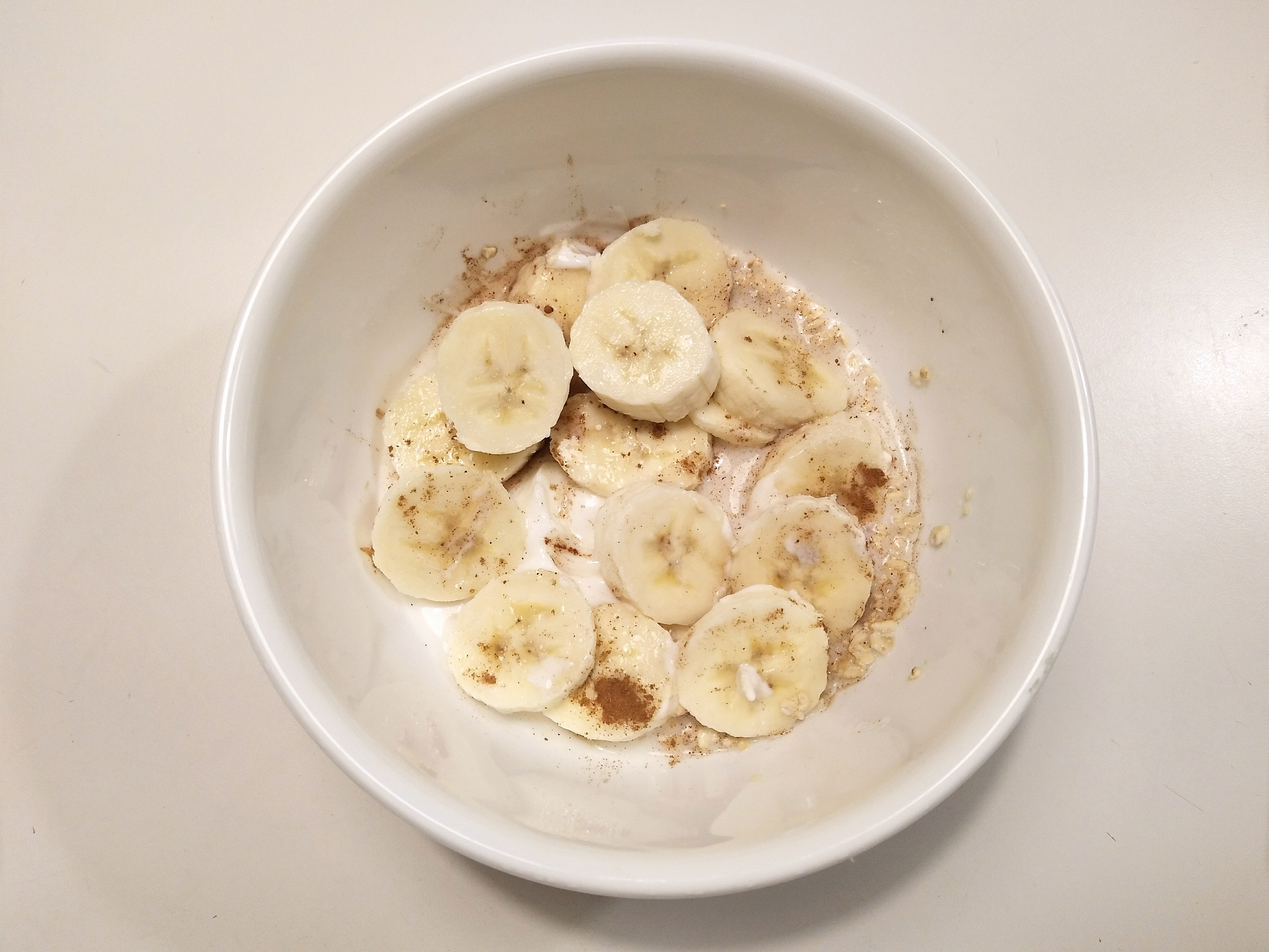
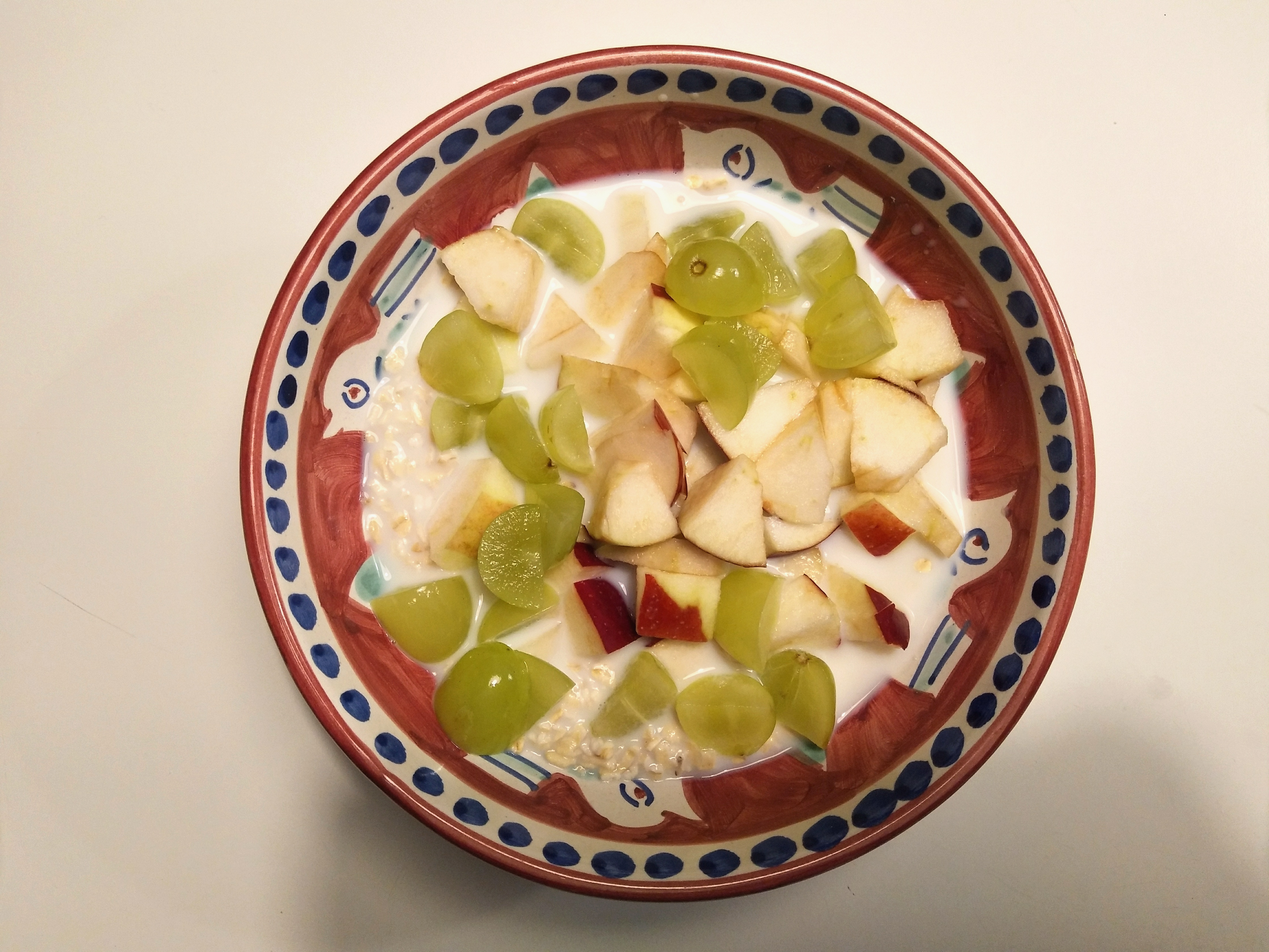
add img

diff --git a/docs/random/quick_food.md b/docs/random/quick_food.md
@@ -23,17 +23,15 @@ This MMM guy has a good [post](https://www.mrmoneymustache.com/2012/03/29/killin
 
 These recipes have been tested by me :)
 
-### Overnight Oats
+### Oats with fruits and milk
 
 | Ingredients | Instructions |
 | --- | --- |
-| - Oats<br>- Milk<br>- Yogurt<br>- Optional: fruits (apples, bananas, etc.) | - Combine oats, milk, and yogurt<br>- Cover the container, put it in the fridge, and leave it overnight<br>- Take it out in the morning. You can add in some bananas with cinamon, or some apple slices |
-
-*Reference: https://www.fivehearthome.com/overnight-oats-3-ways-pb-banana-raspberry-nutella-coconut-almond/*
+| - Oats<br>- Milk<br>- Fruits (apples, bananas, etc.) | - Combine oats, milk, some fruits like banana slices with cinamon, or   apple slices or grapes |
 
 <div style="text-align:center">
     <img src="../../images/random/quick-food/oats.JPG" width="500"/>
-    <p style="font-style: italic;">Banana cinnamon overnight oats</p>
+    <p style="font-style: italic;">Oats with apples, grapes and milk</p>
 </div>
 
 
@@ -74,13 +72,18 @@ These recipes have been tested by me :)
 </div>
 
 
-### Mushroom Pasta
+### Mushroom Spaghetti
 
 | Ingredients | Instructions |
 | --- | --- |
-| - Pasta (any kind)<br>- Mushroom<br>- Tomato sauce<br>- Garlic<br>- Butter<br>- Salt<br>- Black pepper | - Put pasta in boil water and leave it for 9 minutes (depending on the type of pasta)<br>- Sauté chopped garlic with a bit of oil and butter<br>- Add mushrooms in the skillet<br>- Spinkle a bit of salt and pepper<br>- Once the mushrooms release their juices, add tomato sauce, and a bit of pasta cooking water. Stir for 5 minutes<br>- Combine pasta and mushrooms sauce |
+| - Spaghetti <br>- Mushroom<br>- Tomato sauce<br>- Garlic<br>- Butter<br>- Salt<br>- Black pepper | - Put pasta in boil water and leave it for 9 minutes (depending on the type of pasta)<br>- Sauté chopped garlic with a bit of oil and butter<br>- Add mushrooms in the skillet<br>- Spinkle a bit of salt and pepper<br>- Once the mushrooms release their juices, add tomato sauce, and a bit of pasta cooking water. Stir for 5 minutes<br>- Combine pasta and mushrooms sauce |
 
 *Reference: https://www.themediterraneandish.com/mushroom-pasta-recipe/*
+
+<div style="text-align:center">
+    <img src="../../images/random/quick-food/mushroom-spaghetti.JPG" width="500"/>
+    <p style="font-style: italic;">Mushroom Spaghetti</p>
+</div>
 
 
 ### Lentil Spinach Curry

diff --git a/docs/programming/dsu.md b/docs/programming/dsu.md
@@ -13,6 +13,23 @@ math: mathjax2
 {:toc}
 
 **Disjoint Set Union (DSU)** or is also called **Union Find** because of its 2 main operations.
+Problem: 
+
+### How does it work?
+
+#### make
+#### find
+#### union
+
+### Path compression
+
+### Union by size vs union by rank
+
+### Time complexity
+
+### Applications
+
+- Kruskal
 
 ### References
 
